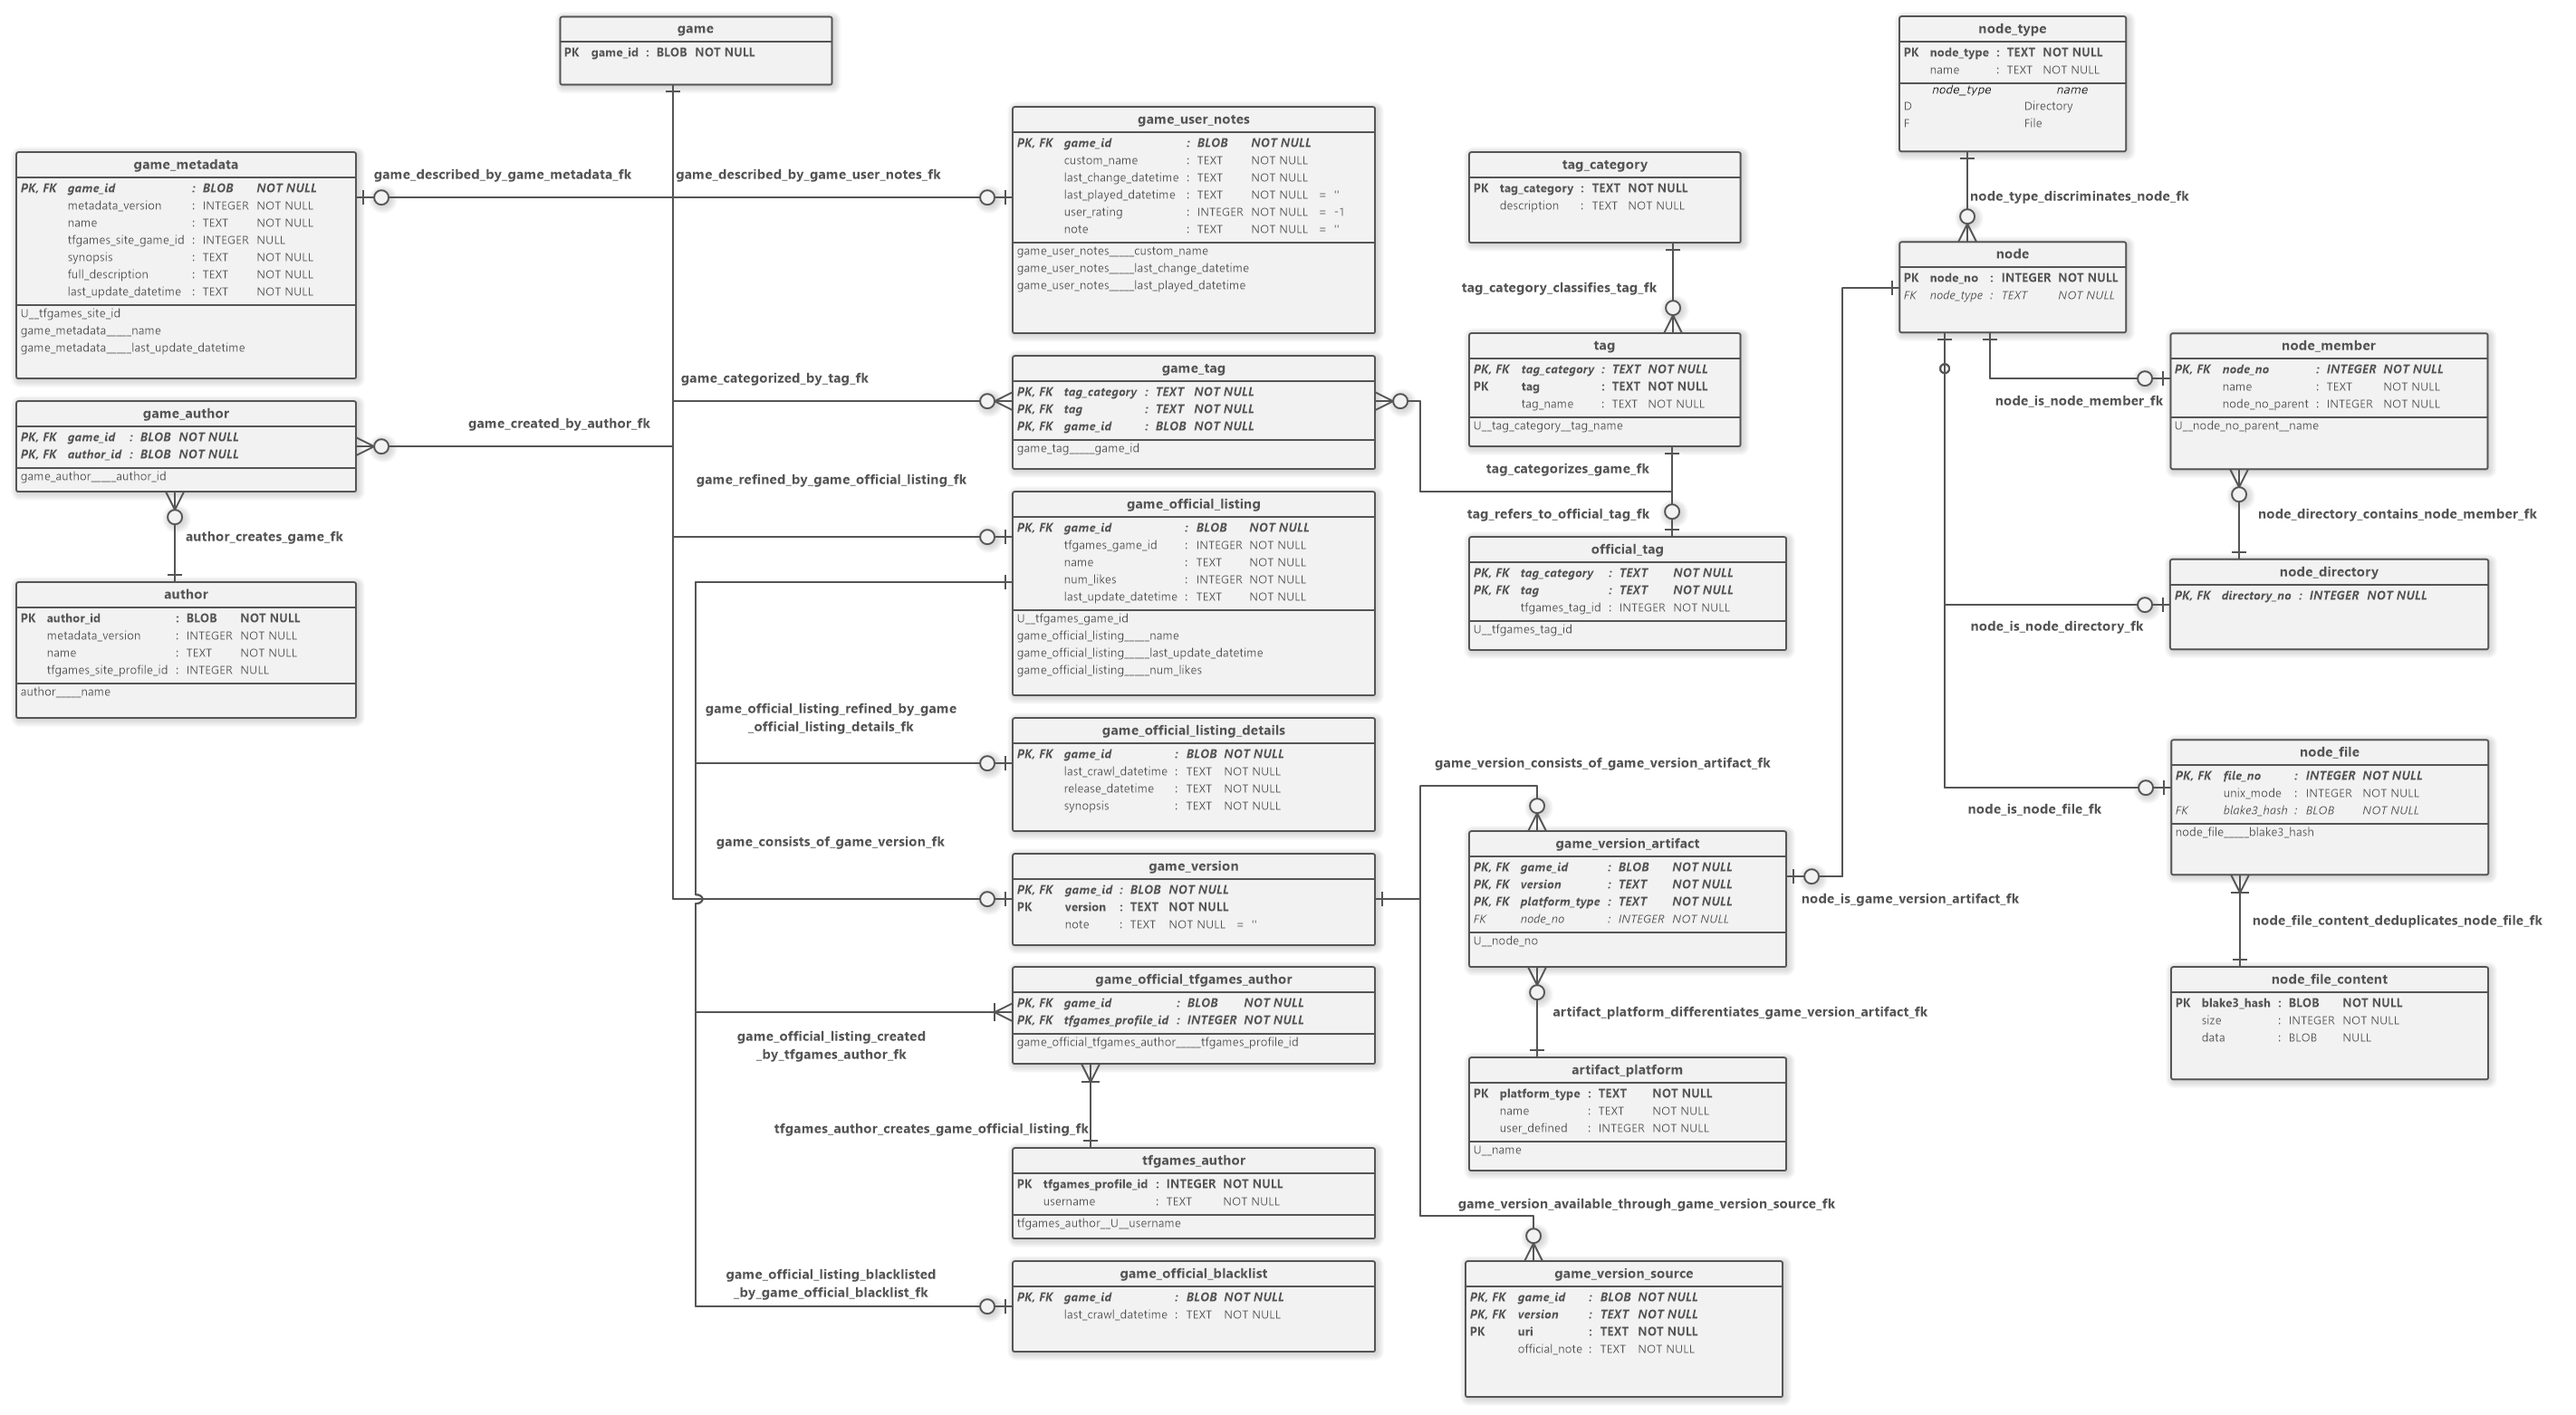
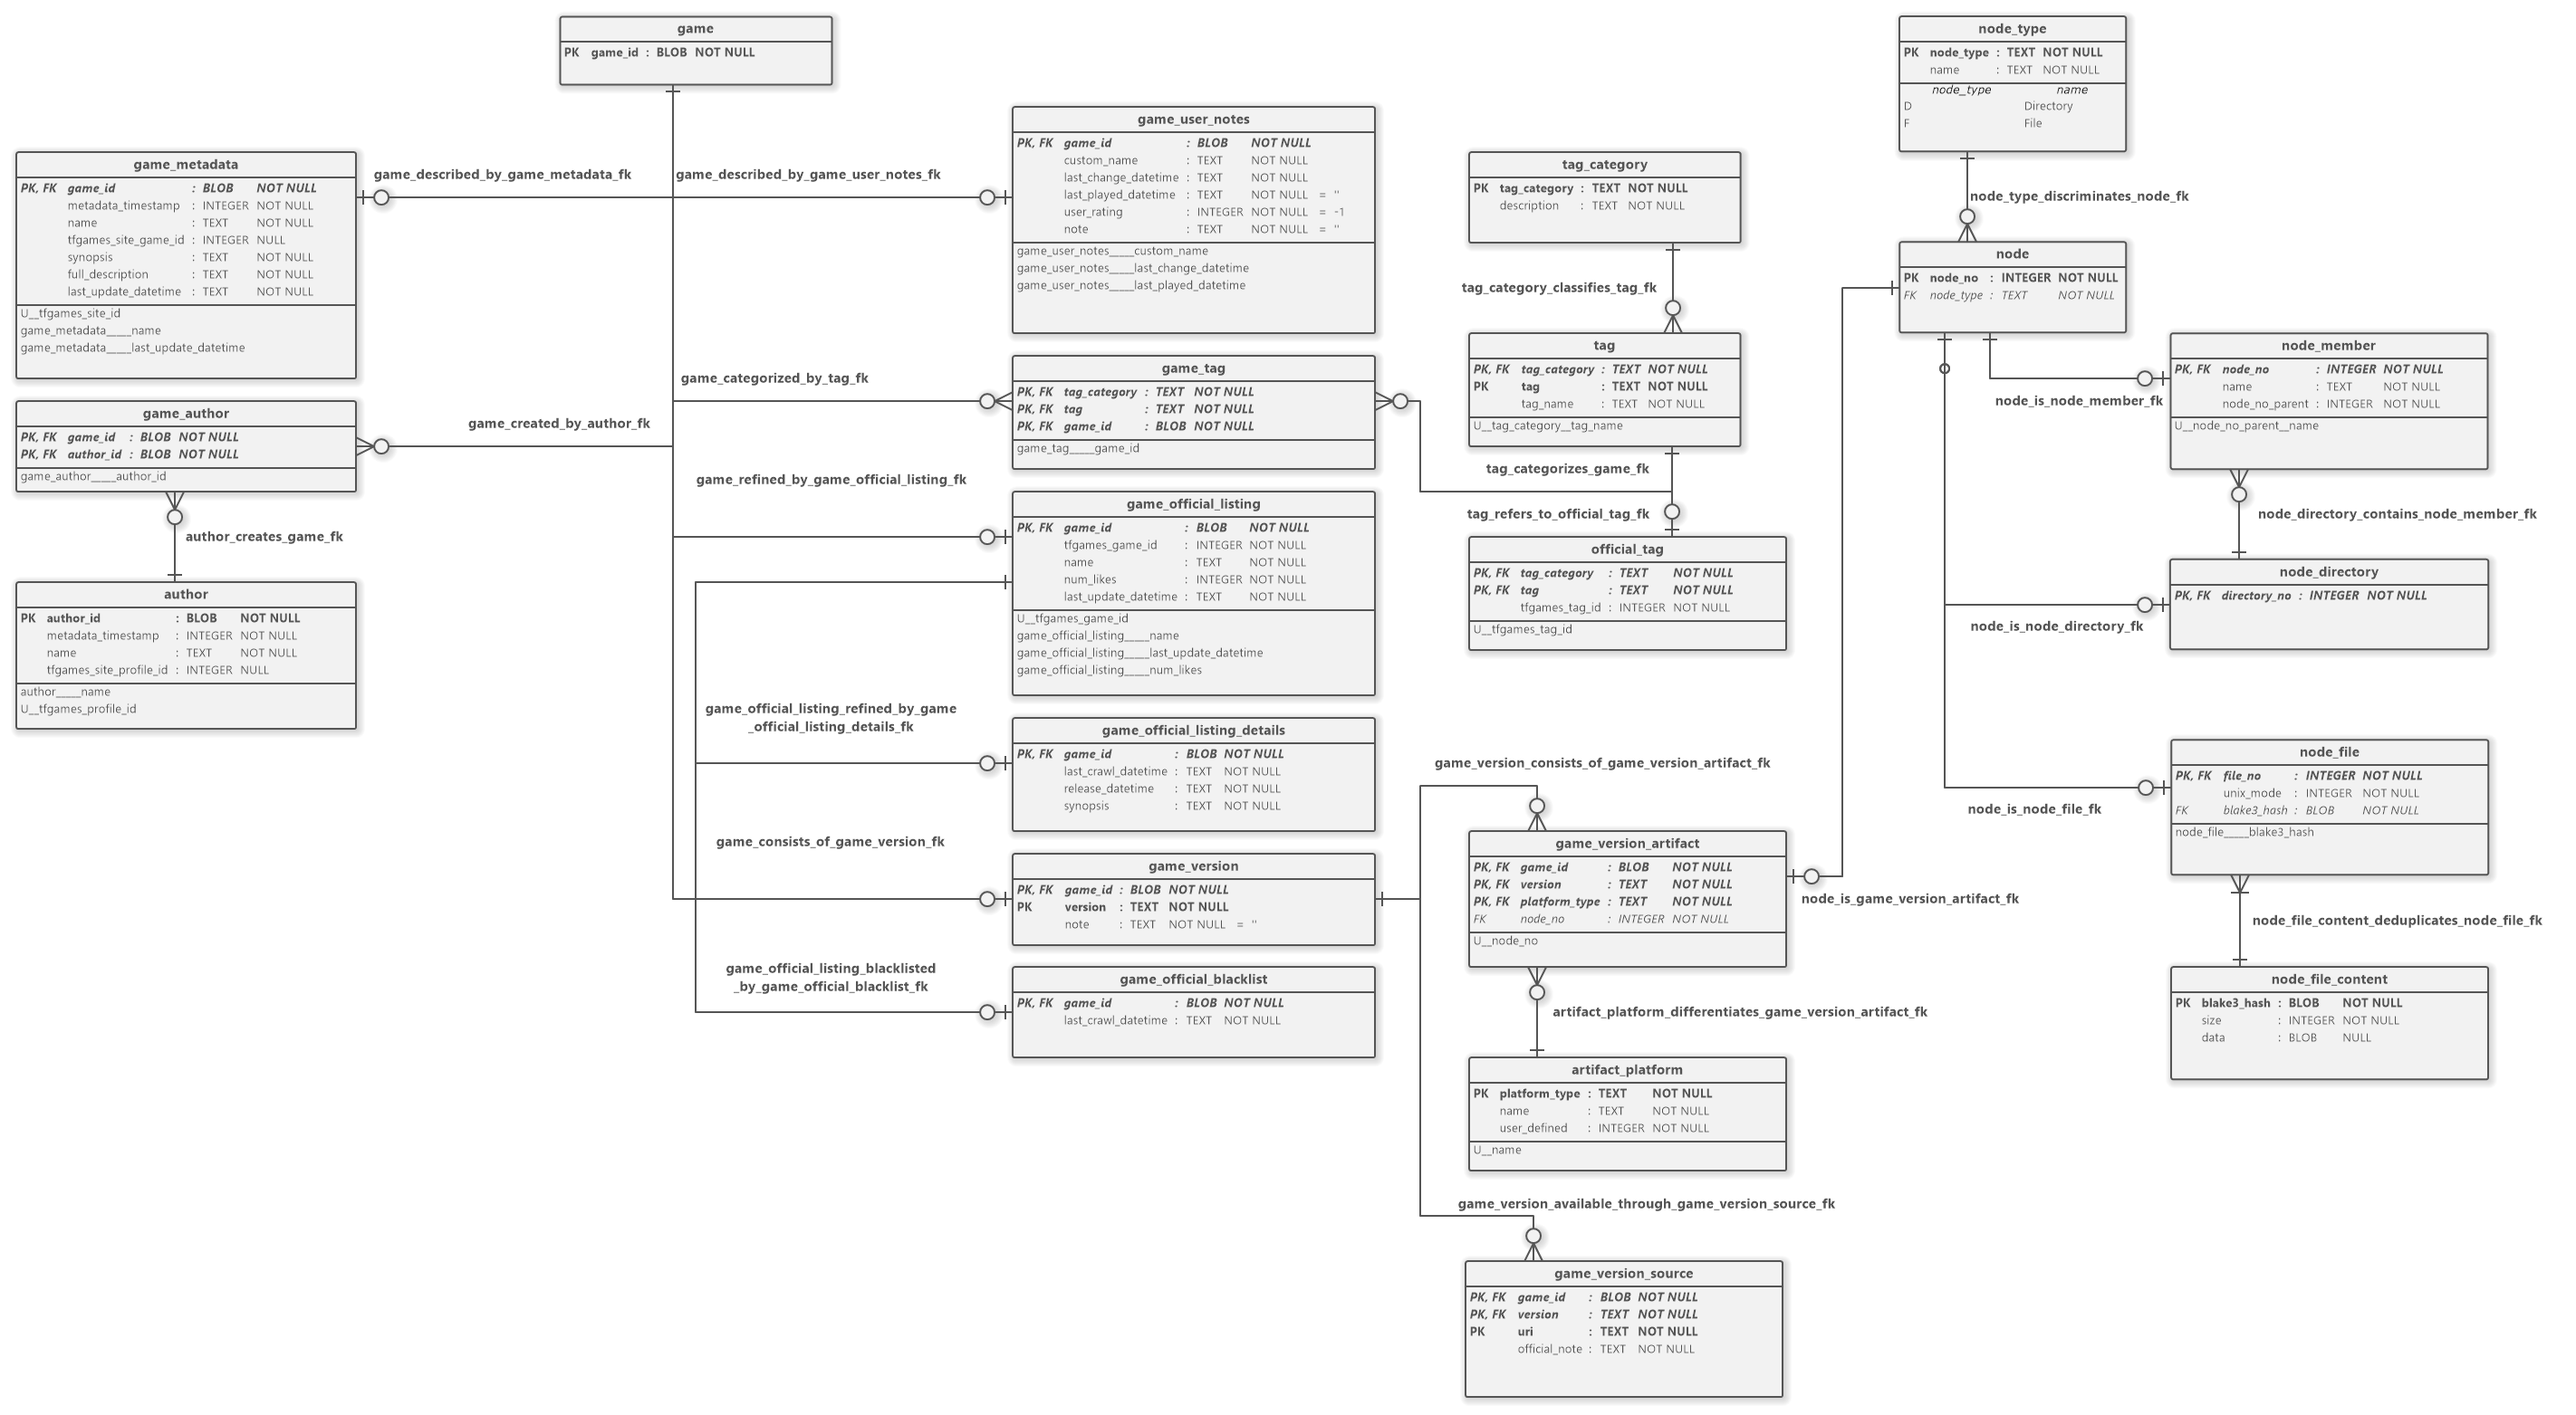
feat: Use timestamp for metadata versioning

diff --git a/src/libs/game-info/loader/test/meta-0/game.md b/src/libs/game-info/loader/test/meta-0/game.md
@@ -9,7 +9,7 @@ authors:
   - name: deedee
     uuid: "f3b3b3b4-1b1b-4b3b-8b3b-3b1b1b3b1b1b"
     tfgames.site: 38045
-    metadata-version: 0 # metadata version (incrementing integer sequence)
+    metadata-timestamp: 2020-01-01 03:00:00 # metadata timestamp (RFC 3339)
 tags:
   - AT:MF
   - AT:FF
@@ -36,7 +36,7 @@ tags:
   - MM:Draw
   - MM:SFX
   - MM:Video
-metadata-version: 0 # metadata version (incrementing integer sequence)
+metadata-timestamp: 2020-01-01 05:00:00 # metadata timestamp (RFC 3339)
 schema-version: "0" # metadata format version, must be "0"
 ---
 
